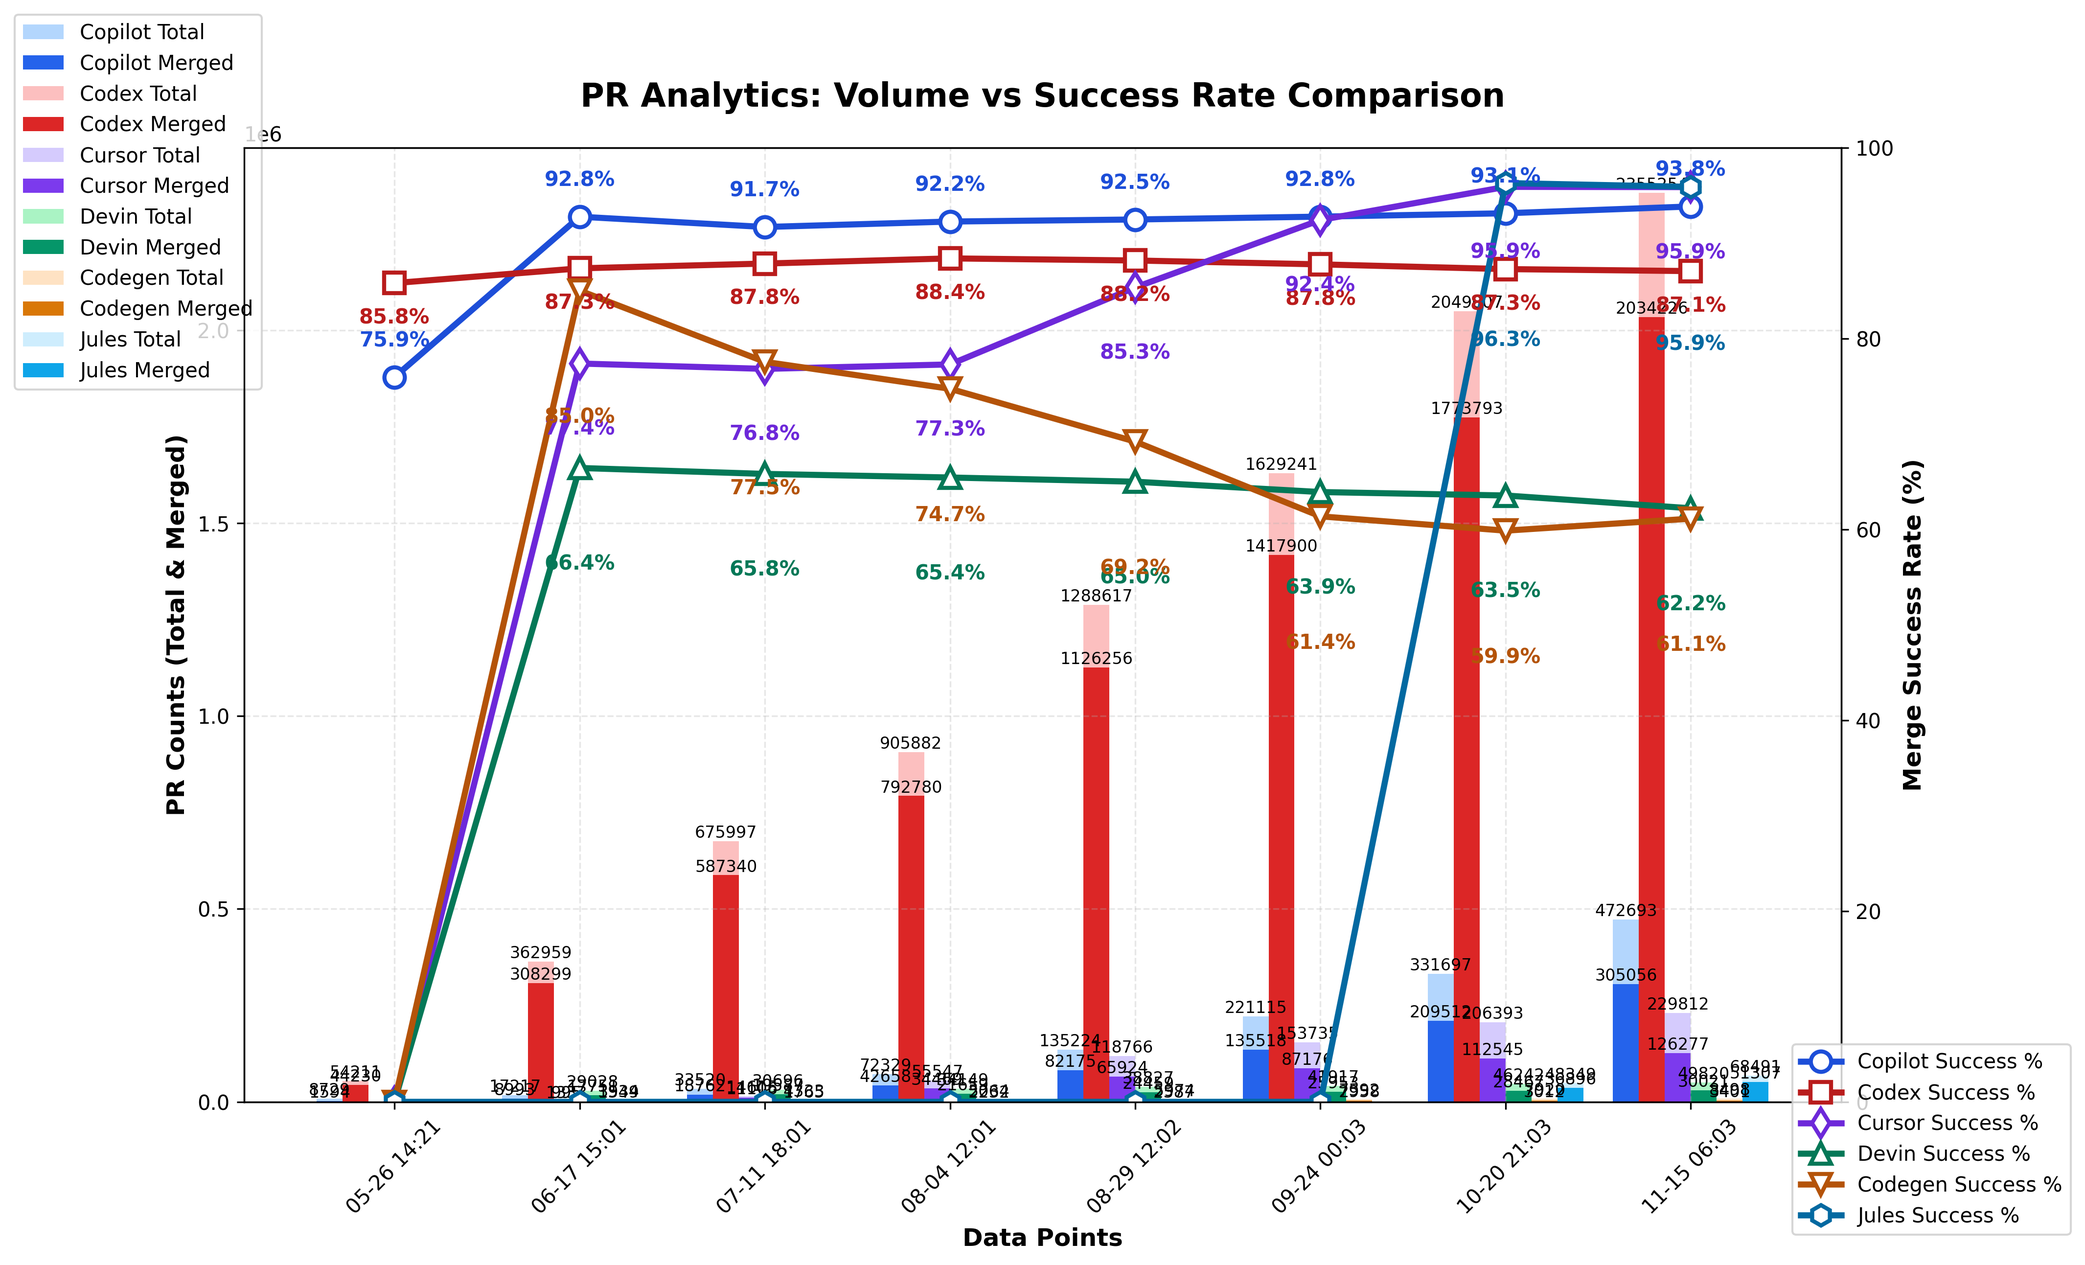
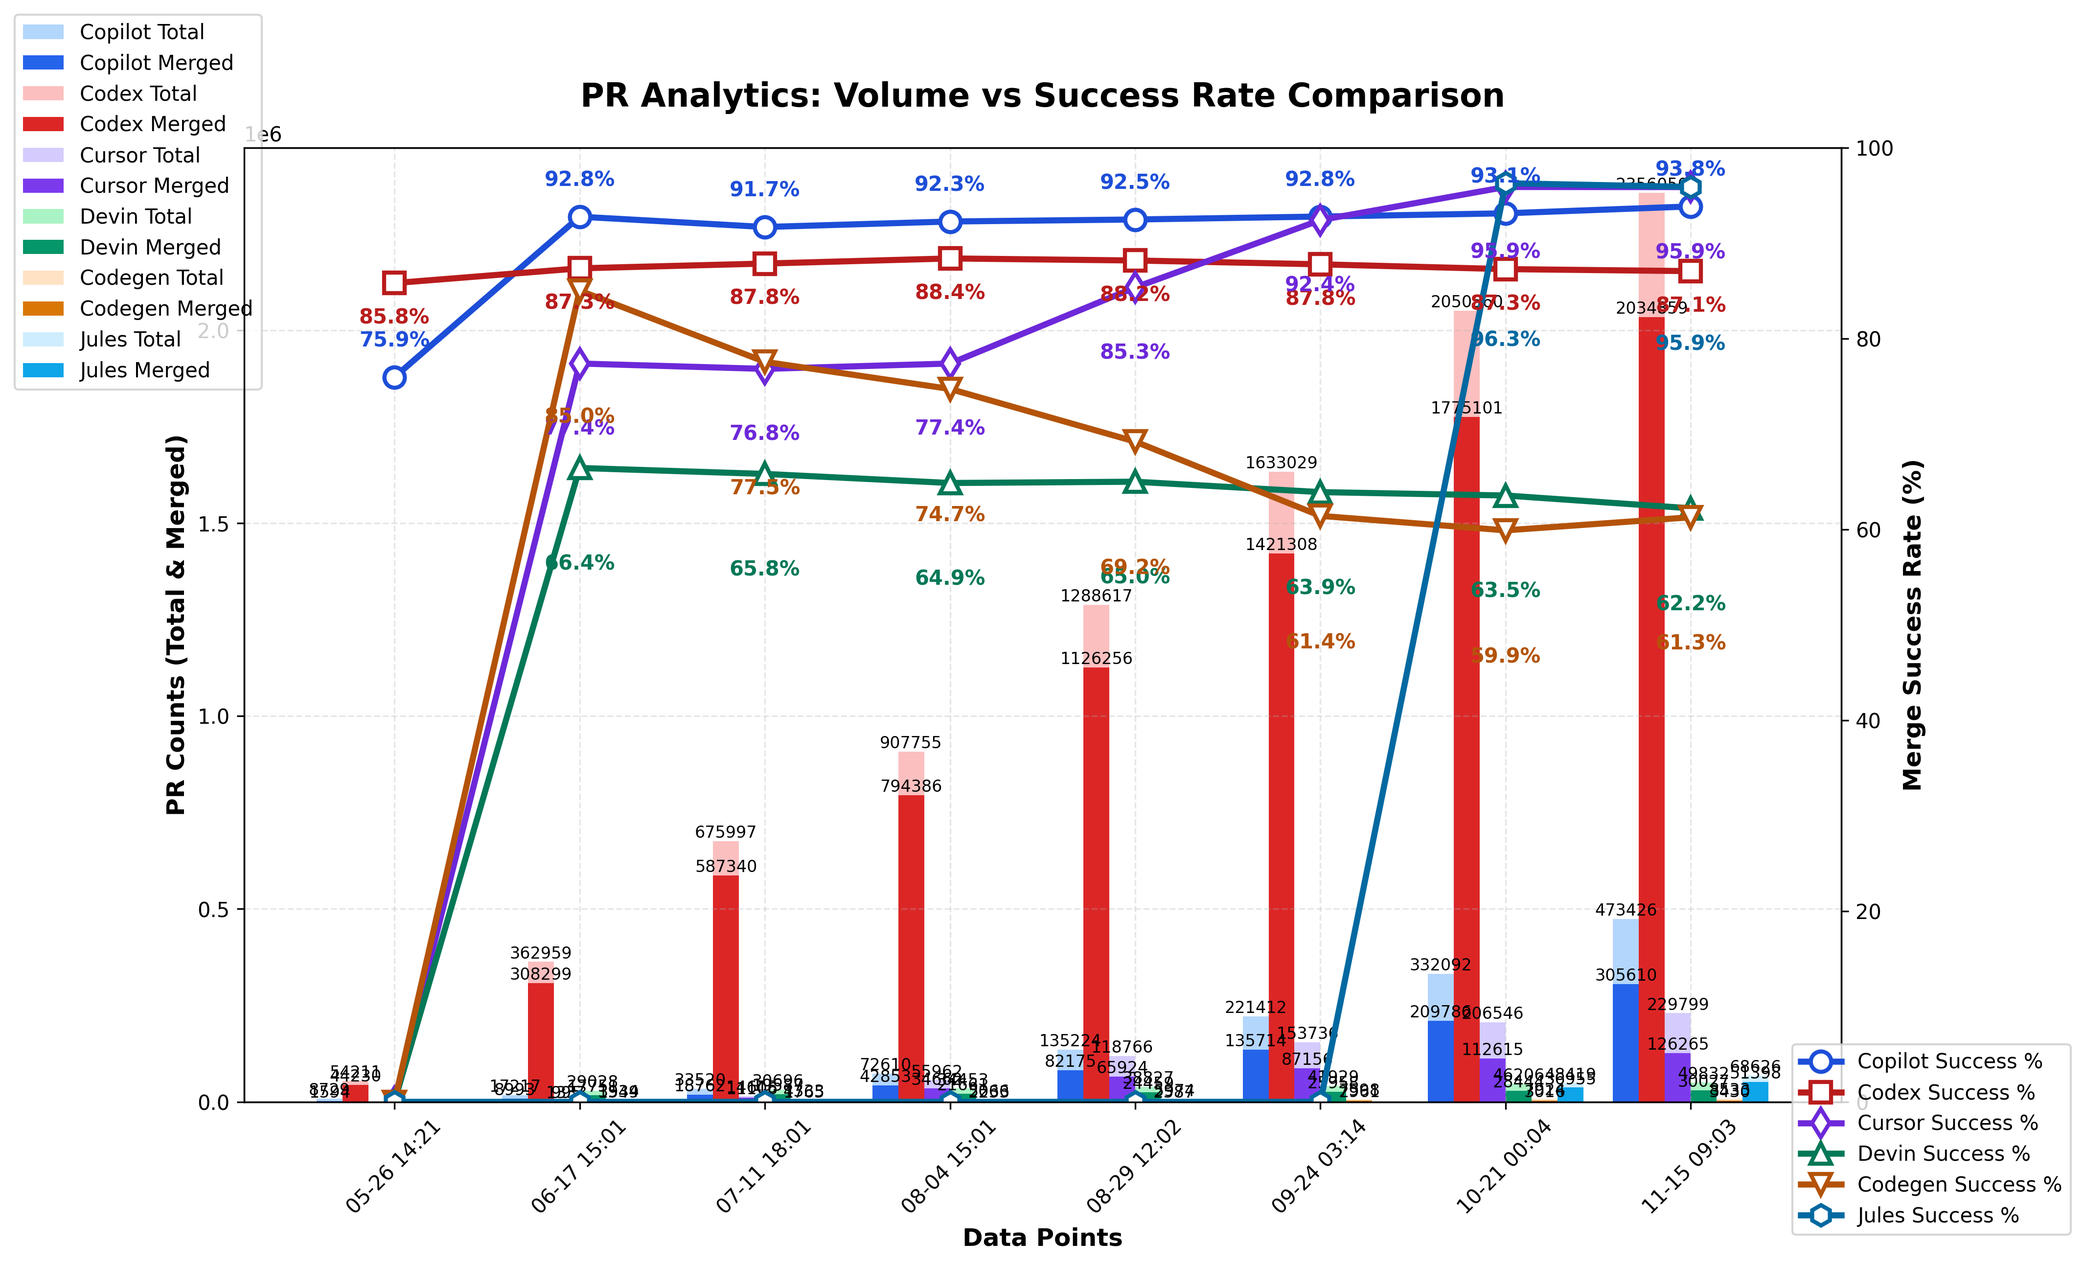
chore: update PR‑approval chart

diff --git a/docs/index.html b/docs/index.html
@@ -54,12 +54,12 @@
         <div class="agents-container" id="agentsContainer">
 
           <div class="agent"
-               data-success-rate="93.8304717729781"
-               data-success-rate-ready="93.8304717729781"
-               data-success-rate-total="64.53575576536991"
-               data-total-prs="472693"
-               data-ready-prs="325114"
-               data-merged-prs="305056"
+               data-success-rate="93.83462802051031"
+               data-success-rate-ready="93.83462802051031"
+               data-success-rate-total="64.5528551452603"
+               data-total-prs="473426"
+               data-ready-prs="325690"
+               data-merged-prs="305610"
                data-agent-name="GitHub Copilot coding agent">
             <div class="agent-header">
               <div class="rank" data-rank="1">#1</div>
@@ -67,9 +67,9 @@
               <div class="agent-info">
                 <h3><a href="https://docs.github.com/en/copilot/how-tos/use-copilot-agents/coding-agent" target="_blank">GitHub Copilot coding agent</a></h3>
                 <span class="agent-subtitle">
-                  <span class="pr-count">325,114</span>
+                  <span class="pr-count">325,690</span>
                   <span class="pr-type">ready</span> /
-                  <span class="pr-total">472,693</span>
+                  <span class="pr-total">473,426</span>
                   <span class="pr-total-label">all PRs</span>
                 </span>
               </div>
@@ -84,19 +84,19 @@
               <div class="secondary-metrics">
                 <div class="metric draft-metric">
                   <a href="https://github.com/search?q=is:pr+head:copilot/+is:draft&type=pullrequests" target="_blank">
-                    <span class="metric-count">147,579</span>
+                    <span class="metric-count">147,736</span>
                     <span>draft</span>
                   </a>
                 </div>
                 <div class="metric">
                   <a href="https://github.com/search?q=is:pr+head:copilot/+-is:draft&type=pullrequests" target="_blank">
-                    <span class="metric-count">325,114</span>
+                    <span class="metric-count">325,690</span>
                     <span>ready</span>
                   </a>
                 </div>
                 <div class="metric">
                   <a href="https://github.com/search?q=is:pr+head:copilot/+is:merged&type=pullrequests" target="_blank">
-                    <span class="metric-count">305,056</span>
+                    <span class="metric-count">305,610</span>
                     <span>merged</span>
                   </a>
                 </div>
@@ -105,18 +105,18 @@
           <div class="progress-bar">
             <div
               class="progress"
-              style="width: 93.8304717729781%; background-color: #2563eb"
+              style="width: 93.83462802051031%; background-color: #2563eb"
             ></div>
           </div>
         </div>
         
           <div class="agent"
-               data-success-rate="87.05822538214272"
-               data-success-rate-ready="87.05822538214272"
-               data-success-rate-total="86.36970789562399"
-               data-total-prs="2355254"
-               data-ready-prs="2336627"
-               data-merged-prs="2034226"
+               data-success-rate="87.05591987048946"
+               data-success-rate-ready="87.05591987048946"
+               data-success-rate-total="86.36739457991129"
+               data-total-prs="2356050"
+               data-ready-prs="2337416"
+               data-merged-prs="2034859"
                data-agent-name="OpenAI Codex">
             <div class="agent-header">
               <div class="rank" data-rank="2">#2</div>
@@ -124,9 +124,9 @@
               <div class="agent-info">
                 <h3><a href="https://openai.com/index/introducing-codex/" target="_blank">OpenAI Codex</a></h3>
                 <span class="agent-subtitle">
-                  <span class="pr-count">2,336,627</span>
+                  <span class="pr-count">2,337,416</span>
                   <span class="pr-type">ready</span> /
-                  <span class="pr-total">2,355,254</span>
+                  <span class="pr-total">2,356,050</span>
                   <span class="pr-total-label">all PRs</span>
                 </span>
               </div>
@@ -141,19 +141,19 @@
               <div class="secondary-metrics">
                 <div class="metric draft-metric">
                   <a href="https://github.com/search?q=is:pr+head:codex/+is:draft&type=pullrequests" target="_blank">
-                    <span class="metric-count">18,627</span>
+                    <span class="metric-count">18,634</span>
                     <span>draft</span>
                   </a>
                 </div>
                 <div class="metric">
                   <a href="https://github.com/search?q=is:pr+head:codex/+-is:draft&type=pullrequests" target="_blank">
-                    <span class="metric-count">2,336,627</span>
+                    <span class="metric-count">2,337,416</span>
                     <span>ready</span>
                   </a>
                 </div>
                 <div class="metric">
                   <a href="https://github.com/search?q=is:pr+head:codex/+is:merged&type=pullrequests" target="_blank">
-                    <span class="metric-count">2,034,226</span>
+                    <span class="metric-count">2,034,859</span>
                     <span>merged</span>
                   </a>
                 </div>
@@ -162,18 +162,18 @@
           <div class="progress-bar">
             <div
               class="progress"
-              style="width: 87.05822538214272%; background-color: #dc2626"
+              style="width: 87.05591987048946%; background-color: #dc2626"
             ></div>
           </div>
         </div>
         
           <div class="agent"
-               data-success-rate="95.86047217793973"
-               data-success-rate-ready="95.86047217793973"
-               data-success-rate-total="54.94795746088107"
-               data-total-prs="229812"
-               data-ready-prs="131730"
-               data-merged-prs="126277"
+               data-success-rate="95.86300621042561"
+               data-success-rate-ready="95.86300621042561"
+               data-success-rate-total="54.94584397669268"
+               data-total-prs="229799"
+               data-ready-prs="131714"
+               data-merged-prs="126265"
                data-agent-name="Cursor Agents">
             <div class="agent-header">
               <div class="rank" data-rank="3">#3</div>
@@ -181,9 +181,9 @@
               <div class="agent-info">
                 <h3><a href="https://docs.cursor.com/background-agent" target="_blank">Cursor Agents</a></h3>
                 <span class="agent-subtitle">
-                  <span class="pr-count">131,730</span>
+                  <span class="pr-count">131,714</span>
                   <span class="pr-type">ready</span> /
-                  <span class="pr-total">229,812</span>
+                  <span class="pr-total">229,799</span>
                   <span class="pr-total-label">all PRs</span>
                 </span>
               </div>
@@ -198,19 +198,19 @@
               <div class="secondary-metrics">
                 <div class="metric draft-metric">
                   <a href="https://github.com/search?q=is:pr+head:cursor/+is:draft&type=pullrequests" target="_blank">
-                    <span class="metric-count">98,082</span>
+                    <span class="metric-count">98,085</span>
                     <span>draft</span>
                   </a>
                 </div>
                 <div class="metric">
                   <a href="https://github.com/search?q=is:pr+head:cursor/+-is:draft&type=pullrequests" target="_blank">
-                    <span class="metric-count">131,730</span>
+                    <span class="metric-count">131,714</span>
                     <span>ready</span>
                   </a>
                 </div>
                 <div class="metric">
                   <a href="https://github.com/search?q=is:pr+head:cursor/+is:merged&type=pullrequests" target="_blank">
-                    <span class="metric-count">126,277</span>
+                    <span class="metric-count">126,265</span>
                     <span>merged</span>
                   </a>
                 </div>
@@ -219,18 +219,18 @@
           <div class="progress-bar">
             <div
               class="progress"
-              style="width: 95.86047217793973%; background-color: #7c3aed"
+              style="width: 95.86300621042561%; background-color: #7c3aed"
             ></div>
           </div>
         </div>
         
           <div class="agent"
-               data-success-rate="62.20292978057726"
-               data-success-rate-ready="62.20292978057726"
-               data-success-rate-total="60.25893215576074"
-               data-total-prs="49820"
-               data-ready-prs="48263"
-               data-merged-prs="30021"
+               data-success-rate="62.1998964267219"
+               data-success-rate-ready="62.1998964267219"
+               data-success-rate-total="60.25646171135014"
+               data-total-prs="49832"
+               data-ready-prs="48275"
+               data-merged-prs="30027"
                data-agent-name="Devin">
             <div class="agent-header">
               <div class="rank" data-rank="4">#4</div>
@@ -238,9 +238,9 @@
               <div class="agent-info">
                 <h3><a href="https://devin.ai/pricing" target="_blank">Devin</a></h3>
                 <span class="agent-subtitle">
-                  <span class="pr-count">48,263</span>
+                  <span class="pr-count">48,275</span>
                   <span class="pr-type">ready</span> /
-                  <span class="pr-total">49,820</span>
+                  <span class="pr-total">49,832</span>
                   <span class="pr-total-label">all PRs</span>
                 </span>
               </div>
@@ -261,13 +261,13 @@
                 </div>
                 <div class="metric">
                   <a href="https://github.com/search?q=is:pr+author:devin-ai-integration[bot]+-is:draft&type=pullrequests" target="_blank">
-                    <span class="metric-count">48,263</span>
+                    <span class="metric-count">48,275</span>
                     <span>ready</span>
                   </a>
                 </div>
                 <div class="metric">
                   <a href="https://github.com/search?q=is:pr+author:devin-ai-integration[bot]+is:merged&type=pullrequests" target="_blank">
-                    <span class="metric-count">30,021</span>
+                    <span class="metric-count">30,027</span>
                     <span>merged</span>
                   </a>
                 </div>
@@ -276,18 +276,18 @@
           <div class="progress-bar">
             <div
               class="progress"
-              style="width: 62.20292978057726%; background-color: #059669"
+              style="width: 62.1998964267219%; background-color: #059669"
             ></div>
           </div>
         </div>
         
           <div class="agent"
-               data-success-rate="61.1141060197664"
-               data-success-rate-ready="61.1141060197664"
-               data-success-rate-total="40.02118145445988"
-               data-total-prs="8498"
-               data-ready-prs="5565"
-               data-merged-prs="3401"
+               data-success-rate="61.26093945347384"
+               data-success-rate-ready="61.26093945347384"
+               data-success-rate-total="40.196882690730106"
+               data-total-prs="8533"
+               data-ready-prs="5599"
+               data-merged-prs="3430"
                data-agent-name="Codegen">
             <div class="agent-header">
               <div class="rank" data-rank="5">#5</div>
@@ -295,9 +295,9 @@
               <div class="agent-info">
                 <h3><a href="https://codegen.com/" target="_blank">Codegen</a></h3>
                 <span class="agent-subtitle">
-                  <span class="pr-count">5,565</span>
+                  <span class="pr-count">5,599</span>
                   <span class="pr-type">ready</span> /
-                  <span class="pr-total">8,498</span>
+                  <span class="pr-total">8,533</span>
                   <span class="pr-total-label">all PRs</span>
                 </span>
               </div>
@@ -305,26 +305,26 @@
             <div class="metrics">
               <div class="primary-metric">
                 <span class="metric-value">
-                  61.1%
+                  61.3%
                 </span>
                 <span class="metric-label">Success Rate</span>
               </div>
               <div class="secondary-metrics">
                 <div class="metric draft-metric">
                   <a href="https://github.com/search?q=is:pr+author:codegen-sh[bot]+is:draft&type=pullrequests" target="_blank">
-                    <span class="metric-count">2,933</span>
+                    <span class="metric-count">2,934</span>
                     <span>draft</span>
                   </a>
                 </div>
                 <div class="metric">
                   <a href="https://github.com/search?q=is:pr+author:codegen-sh[bot]+-is:draft&type=pullrequests" target="_blank">
-                    <span class="metric-count">5,565</span>
+                    <span class="metric-count">5,599</span>
                     <span>ready</span>
                   </a>
                 </div>
                 <div class="metric">
                   <a href="https://github.com/search?q=is:pr+author:codegen-sh[bot]+is:merged&type=pullrequests" target="_blank">
-                    <span class="metric-count">3,401</span>
+                    <span class="metric-count">3,430</span>
                     <span>merged</span>
                   </a>
                 </div>
@@ -333,18 +333,18 @@
           <div class="progress-bar">
             <div
               class="progress"
-              style="width: 61.1141060197664%; background-color: #d97706"
+              style="width: 61.26093945347384%; background-color: #d97706"
             ></div>
           </div>
         </div>
         
           <div class="agent"
-               data-success-rate="95.88480442542377"
-               data-success-rate-ready="95.88480442542377"
-               data-success-rate-total="74.91057219196684"
-               data-total-prs="68491"
-               data-ready-prs="53509"
-               data-merged-prs="51307"
+               data-success-rate="95.88105809051225"
+               data-success-rate-ready="95.88105809051225"
+               data-success-rate-total="74.89581208288404"
+               data-total-prs="68626"
+               data-ready-prs="53606"
+               data-merged-prs="51398"
                data-agent-name="Google Labs Jules">
             <div class="agent-header">
               <div class="rank" data-rank="6">#6</div>
@@ -352,9 +352,9 @@
               <div class="agent-info">
                 <h3><a href="https://labs.google/" target="_blank">Google Labs Jules</a></h3>
                 <span class="agent-subtitle">
-                  <span class="pr-count">53,509</span>
+                  <span class="pr-count">53,606</span>
                   <span class="pr-type">ready</span> /
-                  <span class="pr-total">68,491</span>
+                  <span class="pr-total">68,626</span>
                   <span class="pr-total-label">all PRs</span>
                 </span>
               </div>
@@ -369,19 +369,19 @@
               <div class="secondary-metrics">
                 <div class="metric draft-metric">
                   <a href="https://github.com/search?q=is:pr+author:google-labs-jules[bot]+is:draft&type=pullrequests" target="_blank">
-                    <span class="metric-count">14,982</span>
+                    <span class="metric-count">15,020</span>
                     <span>draft</span>
                   </a>
                 </div>
                 <div class="metric">
                   <a href="https://github.com/search?q=is:pr+author:google-labs-jules[bot]+-is:draft&type=pullrequests" target="_blank">
-                    <span class="metric-count">53,509</span>
+                    <span class="metric-count">53,606</span>
                     <span>ready</span>
                   </a>
                 </div>
                 <div class="metric">
                   <a href="https://github.com/search?q=is:pr+author:google-labs-jules[bot]+is:merged&type=pullrequests" target="_blank">
-                    <span class="metric-count">51,307</span>
+                    <span class="metric-count">51,398</span>
                     <span>merged</span>
                   </a>
                 </div>
@@ -390,7 +390,7 @@
           <div class="progress-bar">
             <div
               class="progress"
-              style="width: 95.88480442542377%; background-color: #0ea5e9"
+              style="width: 95.88105809051225%; background-color: #0ea5e9"
             ></div>
           </div>
         </div>
@@ -535,7 +535,7 @@
       <!-- Simple Footer -->
       <footer class="footer">
         <p>
-          Updated November 15, 2025 06:03 UTC •
+          Updated November 15, 2025 09:03 UTC •
           <a href="https://github.com/aavetis/ai-pr-watcher" target="_blank">by aavetis</a>
         </p>
       </footer>

diff --git a/README.md b/README.md
@@ -52,9 +52,9 @@ Explore the GitHub search queries used:
 
 | Project | Ready PRs | Merged PRs | Success Rate |
 | ------- | --------- | ---------- | ------------ |
-| Copilot | 325,114 | 305,056 | 93.83% |
-| Codex | 2,336,627 | 2,034,226 | 87.06% |
-| Cursor | 131,730 | 126,277 | 95.86% |
-| Devin | 48,263 | 30,021 | 62.2% |
-| Codegen | 5,565 | 3,401 | 61.11% |
-| Jules | 53,509 | 51,307 | 95.88% |
+| Copilot | 325,690 | 305,610 | 93.83% |
+| Codex | 2,337,416 | 2,034,859 | 87.06% |
+| Cursor | 131,714 | 126,265 | 95.86% |
+| Devin | 48,275 | 30,027 | 62.2% |
+| Codegen | 5,599 | 3,430 | 61.26% |
+| Jules | 53,606 | 51,398 | 95.88% |
